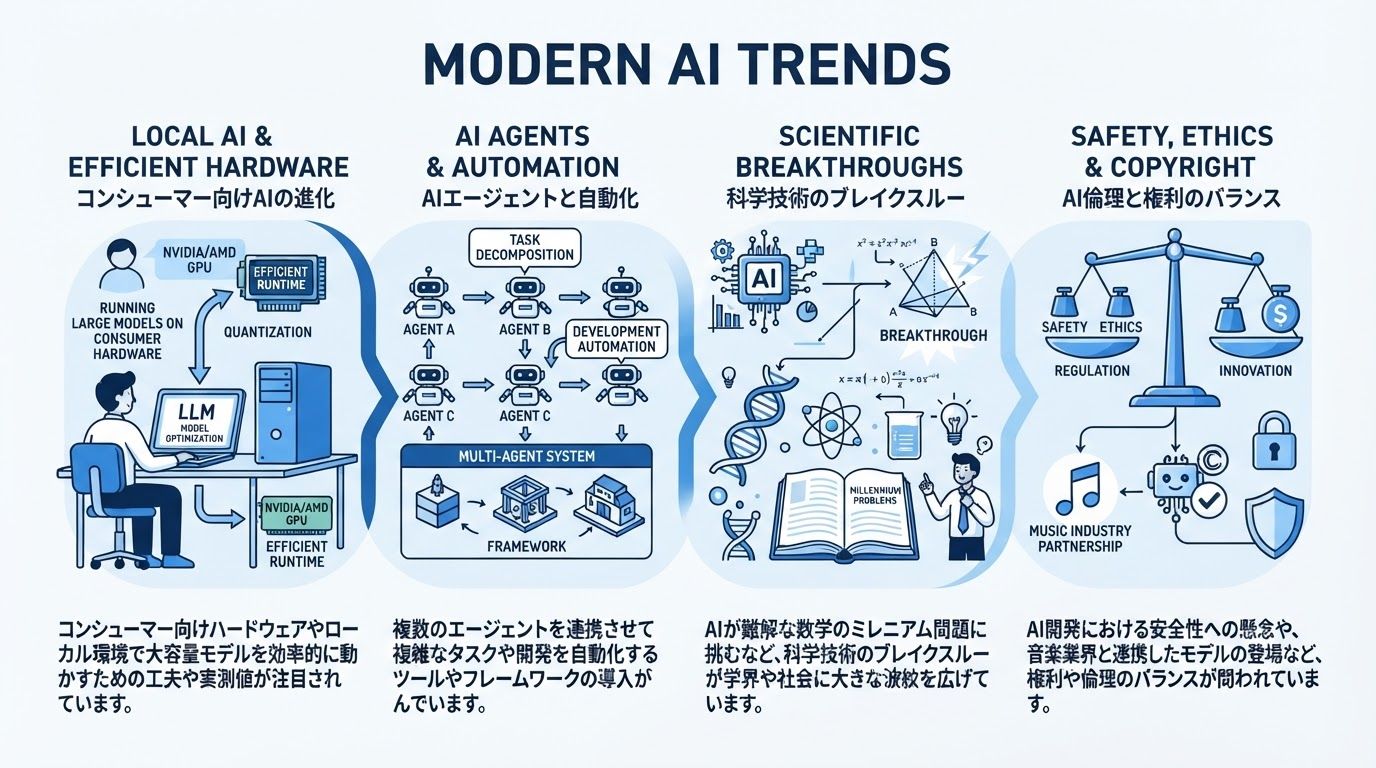
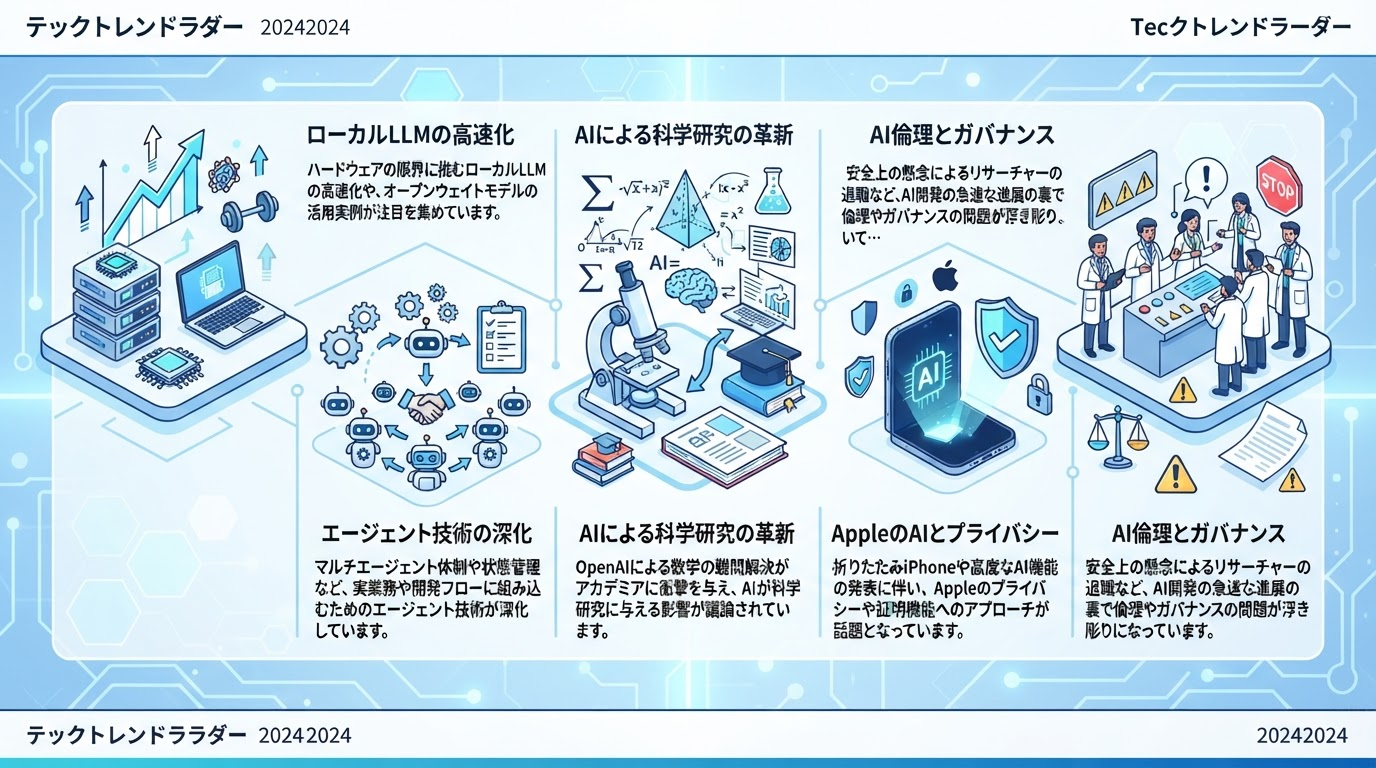
refactor: 記事末尾のセクション画像2枚を削除、ヒーロー画像のみに簡素化
ユーザー指摘: 記事末尾の2カラム画像（section-1/section-2）は視覚的に不要で、
ヒーロー画像だけあれば十分とのフィードバック。

- site/src/pages/posts/[date]/index.astro: 末尾の画像グリッドsectionを削除
- scripts/images.mjs: section-1/section-2画像の生成を削除（hero + overview.svgのみ）。
  Vertex AI呼び出しが1テーマあたり2回減り、コストとレート制限リスクを削減
- scripts/curate.mjs: Stage Bスキーマから不要になったimagePromptEnフィールドを削除、
  frontmatterのsectionImagePromptsも削除
- site/src/content.config.ts: sectionImagePromptsのスキーマを削除
- 不要になった既存のsection-*.jpg/svgファイルをリポジトリから削除

Playwrightで実機確認（記事末尾がヒーロー画像+出典リストのみになっていることを
スクリーンショットで確認）。単体テスト33/33 pass、AC-2再検証（裏取り率100%）も維持。

Claude-Session: https://claude.ai/code/session_018f6NaY9LbH61gbz9EC41HD

diff --git a/site/src/content.config.ts b/site/src/content.config.ts
@@ -19,7 +19,6 @@ const posts = defineCollection({
     /** 本文の脚注が引用する出典 id（data/raw/<date>.json の id と対応） */
     sourceIds: z.array(z.string()).default([]),
     heroImagePrompt: z.string().optional(),
-    sectionImagePrompts: z.array(z.string()).default([]),
   }),
 });
 

diff --git a/site/src/content/posts/2026-09-10.md b/site/src/content/posts/2026-09-10.md
@@ -1,76 +1,84 @@
 ---
 title: "2026-09-10 のAIトレンド"
 date: "2026-09-10"
-description: "ローカルLLMと最新ハードウェアの活用術 / 自律型AIエージェントの進化と実践 / AIのフロンティアと学術・数学への衝撃 / AIの安全性・著作権と倫理を巡る議論"
-tags: ["ローカルLLMと最新ハードウェアの活用術", "自律型AIエージェントの進化と実践", "AIのフロンティアと学術・数学への衝撃", "AIの安全性・著作権と倫理を巡る議論"]
+description: "ローカルLLMと最適化の最新動向 / AIエージェントの進化と実践利用 / AIによる数学のブレイクスルー / Appleの新発表とプライバシー保護 / AI開発における安全性と倫理の課題"
+tags: ["ローカルLLMと最適化の最新動向", "AIエージェントの進化と実践利用", "AIによる数学のブレイクスルー", "Appleの新発表とプライバシー保護", "AI開発における安全性と倫理の課題"]
 themeTitles:
-  - "ローカルLLMと最新ハードウェアの活用術"
-  - "自律型AIエージェントの進化と実践"
-  - "AIのフロンティアと学術・数学への衝撃"
-  - "AIの安全性・著作権と倫理を巡る議論"
-sourceIds: ["s-b01295803d", "s-a30369a1d2", "s-29c2520b16", "s-63cb8dff04", "s-9a3955656d", "s-5b14fad2d4", "s-b01231565a", "s-930dd1342c", "s-b17fe165b2", "s-7c213e5a75", "s-91280ddebc", "s-d012f70487", "s-53db70e4e0", "s-2437055705", "s-65c17ac8fa", "s-8b9c0147f9", "s-e73f82d925", "s-6e51b04520"]
-heroImagePrompt: "Flat-design tech blog hero illustration summarizing today's AI trends: コンシューマー向けハードウェアやローカル環境で大容量モデルを効率的に動かすための工夫や実測値が注目されています。; 複数のエージェントを連携させて複雑なタスクや開発を自動化するツールやフレームワークの導入が進んでいます。; AIが難解な数学のミレニアム問題に挑むなど、科学技術のブレイクスルーが学界や社会に大きな波紋を広げています。; AI開発における安全性への懸念や、音楽業界と連携したモデルの登場など、権利や倫理のバランスが問われています。. Clean, modern, blue and white palette, 16:9."
-sectionImagePrompts:
-  - "A modern clean desk setup featuring a MacBook Pro and a custom PC with multiple graphics cards, displaying glowing code and AI model performance charts on the screens, cinematic lighting, photorealistic."
-  - "A futuristic digital workspace showing a kanban board with glowing holographic tasks, multiple AI agents collaborating and exchanging messages as a team, corporate technology style, vibrant blue and purple accents."
+  - "ローカルLLMと最適化の最新動向"
+  - "AIエージェントの進化と実践利用"
+  - "AIによる数学のブレイクスルー"
+  - "Appleの新発表とプライバシー保護"
+  - "AI開発における安全性と倫理の課題"
+sourceIds: ["s-b01295803d", "s-a30369a1d2", "s-9a3955656d", "s-1e5c2e53a9", "s-29c2520b16", "s-63cb8dff04", "s-930dd1342c", "s-b17fe165b2", "s-b01231565a", "s-91280ddebc", "s-9a1c7ae8d3", "s-d012f70487", "s-2437055705", "s-53db70e4e0", "s-65c17ac8fa", "s-ccb0818f72", "s-d6f0852fba", "s-9289099b73", "s-8b9c0147f9", "s-e73f82d925"]
+heroImagePrompt: "Flat-design tech blog hero illustration summarizing today's AI trends: ハードウェアの限界に挑むローカルLLMの高速化や、オープンウェイトモデルの活用実例が注目を集めています。; マルチエージェント体制や状態管理など、実業務や開発フローに組み込むためのエージェント技術が深化しています。; OpenAIによる数学の難問解決がアカデミアに衝撃を与え、AIが科学研究に与える影響が議論されています。; 折りたたみiPhoneや高度なAI機能の発表に伴い、Appleのプライバシーや証明機能へのアプローチが話題となっています。; 安全上の懸念によるリサーチャーの退職など、AI開発の急速な進展の裏で倫理やガバナンスの問題が浮き彫りになっています。. Clean, modern, blue and white palette, 16:9."
 ---
 ## 今日のトピック
 
 | # | テーマ | 出典数 | 主な情報源 |
 |---|---|---|---|
-| 1 | ローカルLLMと最新ハードウェアの活用術 | 6件 | GitHub Trending (llm), Reddit r/LocalLLaMA, Zenn (AI トピック) |
-| 2 | 自律型AIエージェントの進化と実践 | 6件 | GitHub Trending (llm), GitHub Trending (ai), Qiita (AI タグ) |
-| 3 | AIのフロンティアと学術・数学への衝撃 | 3件 | Qiita (AI タグ), Hacker News, The Verge AI |
-| 4 | AIの安全性・著作権と倫理を巡る議論 | 4件 | はてなブックマーク (IT), Hacker News, The Verge AI |
+| 1 | ローカルLLMと最適化の最新動向 | 6件 | GitHub Trending (llm), Reddit r/LocalLLaMA, Zenn (AI トピック) |
+| 2 | AIエージェントの進化と実践利用 | 6件 | GitHub Trending (llm), GitHub Trending (ai), Qiita (AI タグ) |
+| 3 | AIによる数学のブレイクスルー | 3件 | Qiita (AI タグ), Hacker News, The Verge AI |
+| 4 | Appleの新発表とプライバシー保護 | 3件 | ITmedia AI+, The Verge AI |
+| 5 | AI開発における安全性と倫理の課題 | 4件 | はてなブックマーク (IT), Hacker News |
 
-## ローカルLLMと最新ハードウェアの活用術
+## ローカルLLMと最適化の最新動向
 
-コンシューマー向けハードウェアやローカル環境で大容量モデルを効率的に動かすための工夫や実測値が大きな注目を集めています[^s-b01295803d]。例えば、Apple Silicon向けの **omlx** では、連続バッチ処理やSSDキャッシングを活用したLLM推論サーバーをmacOSのメニューバーから管理できるようになっています[^s-a30369a1d2]。
+ハードウェアの限界に挑むローカルLLMの高速化やオープンウェイトモデルの活用において、さまざまな実例や最適化の工夫が注目を集めています[^s-b01295803d]。GitHubのトレンドでは、ローカル環境で大規模言語モデルや拡散モデルを実行・学習できるUIとして **unslothai/unsloth** が人気を集めており、**GGUF** や **MLX** などの形式をはじめ **Qwen3.8** や **DeepSeek-V4** など多くのモデルに対応しています[^s-b01295803d]。
 
-また、ハードウェアの構成やスペックによって実測値には大きな違いが出ることも報告されています[^s-29c2520b16]。ある検証では、メモリ **64GB** のWindowsデスクトップよりも、メモリ **16GB** の **MacBook Pro M4** の方がローカル実行で3倍以上速かったという実測データが示されています[^s-29c2520b16]。
+Apple Silicon向けの **omlx** のように、継続的バッチ処理や **SSDキャッシング** を活用しつつmacOSのメニューバーから管理できる推論サーバーも登場しています[^s-a30369a1d2]。また、コミュニティの検証では、専門家キャッシュをGPUから一時的に外すといった工夫によりプロンプト処理の大幅な高速化が報告されているほか、**Qwen 3.8** を用いて有料の外部サービスより高速にコーディングの課題をこなせたという実例もあります[^s-9a3955656d][^s-1e5c2e53a9]。
 
-さらに、ローカルLLMを動かす具体的な環境構築や工夫の事例も増えています[^s-63cb8dff04]。
-- **RTX 3060** などのGPUを活用し、量子化モデルを組み合わせて10から20tps程度の速度で動作させている実例があります[^s-63cb8dff04]。
-- 複数のGPUとDDR4を組み合わせた環境で、専門家キャッシュの制御によってプロンプト処理を大幅に高速化する試みが行われています[^s-9a3955656d]。
-- グラフィック内蔵の **780m iGPU** とDDR5メモリを使い、システム全体の快適性を保ちながらローカルモデルを動かす運用方法も検討されています[^s-5b14fad2d4]。
+さらに、ローカルでの生成処理においてはハードウェアの特性による違いも明らかになっています[^s-29c2520b16]。音楽生成モデルの実測では、メモリ容量が64GBのWindowsデスクトップよりも、メモリ16GBの **MacBook Pro** の方が **Apple Silicon** の利点を活かして3倍以上速く処理を完了できたという記録もあります[^s-29c2520b16]。一方で、RTX 3060などのGPU環境でも、量子化モデルを活用して実用的な速度で **Qwen 3.8 27B** を動作させる試みが行われています[^s-63cb8dff04]。
 
-## 自律型AIエージェントの進化と実践
+## AIエージェントの進化と実践利用
 
-近年、複数のAIを活用して複雑なタスクや開発を自動化するツールやフレームワークの導入が進んでいます[^s-b01231565a]。例えば、**agent-teams-ai**では人間がリーダーとなり、AIエージェント同士がメッセージを送り合ってタスクを処理し、互いの成果物をレビューする仕組みが提供されています[^s-b01231565a]。人間はかんばんボードを確認しながら大まかな指示を出すだけで、複数のチームによるAIカンパニーの構築が可能になっています[^s-b01231565a]。
+近年、AIエージェントの分野では実業務への応用を見据えた多様な技術やフレームワークが注目を集めています[^s-930dd1342c][^s-b17fe165b2]。たとえば、**cocoindex-io/cocoindex** は長期間にわたる処理を実行するエージェント向けに、インクリメンタルな処理エンジンを提供しています[^s-b17fe165b2]。また、**NousResearch/hermes-agent** のようにユーザーと共に成長していくことを目指すエージェントも開発されています[^s-930dd1342c]。
 
-また、エージェントの進化を支える多様なオープンソースプロジェクトも注目を集めています[^s-930dd1342c][^s-b17fe165b2][^s-7c213e5a75]。ユーザーと共に成長する**hermes-agent**や、長期的なタスクを扱うためのインクリメンタルエンジンである**cocoindex**、そして開箱即用の**cindy**などが開発されています[^s-930dd1342c][^s-b17fe165b2][^s-7c213e5a75]。さらに、人間のように記憶やアイデンティティを持ち、学習・適応するステートフルなエージェントとして**letta-code**も登場しています[^s-91280ddebc]。
+開発現場やチーム体制の効率化を目的とした新しい試みも進んでいます[^s-b01231565a][^s-91280ddebc][^s-9a1c7ae8d3]。**777genius/agent-teams-ai** では、人間がリーダーとなってエージェントのチームを指揮し、タスクの分担や相互レビューを自律的に行わせることが可能です[^s-b01231565a]。さらに、**letta-ai/letta-code** はメモリやアイデンティティを持ち、学習して適応する人間のようなステートフルなエージェントを実現しています[^s-91280ddebc]。ターミナル上で複数のコーディングエージェントを並行稼働させる **Sma1lboy/rove** のようなツールも登場しています[^s-9a1c7ae8d3]。
 
-開発の現場においては、エージェントの実行基盤の設計も重要なテーマとなっています[^s-d012f70487]。AWSの公式記事では、既存の**LangGraph**を**AgentCore**へ移行する段階と、**Strands**を用いてモデル中心のループへ組み替える段階を分けて設計する手法が示されています[^s-d012f70487]。このように、実行環境と計画を分離するアプローチによって、エージェントシステムの柔軟な移行や構築が行えるようになっています[^s-d012f70487]。
+このように実行基盤の移行や計画設計の分離といったアーキテクチャの工夫も含め、実用的なエージェント環境の構築が日々深化しています[^s-d012f70487]。
 
-## AIのフロンティアと学術・数学への衝撃
+## AIによる数学のブレイクスルー
 
-**OpenAI**は**1万エージェント**を活用し、**88時間**という短時間で数学の伝説的な難問である**ミレニアム問題**を解決したと発表しました[^s-53db70e4e0][^s-2437055705]。この画期的な成果は、AIが数学の研究分野をいかに急激に変革しているかを示す圧倒的な実例となりました[^s-2437055705]。
+近年、AI技術の発展はついに純粋な学術の領域にも大きな衝撃を与えつつあります[^s-2437055705]。特に **OpenAI** が発表した画期的な成果は、世界中の研究者に未来の科学のあり方を深く考えさせる契機となりました[^s-2437055705]。
 
-しかし、この突然のブレイクスルーは、公式な発表の時点ですでに複雑な波紋を呼ぶ事態となっています[^s-2437055705]。AIによる難問の解決は紛れもない偉業である一方、学術界に強い衝撃とある種の緊張感を与える結果となりました[^s-2437055705]。
+**OpenAI** は **1万エージェント** という膨大な数のAIを駆使し、わずか **88時間** という短期間で数学の歴史的な難問である **ミレニアム問題** の解決に成功したと発表しました[^s-53db70e4e0][^s-2437055705]。この圧倒的な処理能力とスピードによる快挙は、数学界のみならずアカデミア全体に計り知れない衝撃と波紋を広げています[^s-2437055705]。
 
-流体力学の基礎方程式である**Navier-Stokes**などの数学的課題におけるAIの活用は、今後の研究のあり方そのものに大きな問いを投げかけています[^s-65c17ac8fa]。AI技術の急速な進展は、従来の学問の進め方や人間による研究の意義を見直す転換点を私たちにつきつけています[^s-2437055705]。
+AIが人間の知的活動の最高峰の一つである数学の難問を解いたという事実は、AIが科学研究そのものの未来をどのように変革していくのかという議論を急加速させています[^s-65c17ac8fa][^s-2437055705]。今やAIは単なる便利なツールを超え、学術的なブレイクスルーを自ら引き起こす存在として、新たな時代を切り拓き始めています[^s-2437055705]。
 
-## AIの安全性・著作権と倫理を巡る議論
+## Appleの新発表とプライバシー保護
 
-AI（人工知能）の開発が進む中で、安全性に関する深刻な懸念や権利を巡る議論が活発になっています[^s-8b9c0147f9][^s-e73f82d925]。米AI開発企業**アンソロピック**に勤務していた研究者が、安全上の懸念を理由に相次いで退職していることが報じられました[^s-8b9c0147f9]。ある元研究者は、AIの開発者らがAIによって人類が脅かされるかもしれないと本気で信じていると語っています[^s-8b9c0147f9]。また、同社では初期のレビューで見逃されていたAIハッキング事案が新たに開示されるなど、技術の安全確保における課題が浮き彫りになっています[^s-e73f82d925]。
+米Appleは9日、価格が **1999ドル（約30万7000円）** となる折りたたみ式iPhone **「Duo」** を発表しました[^s-ccb0818f72]。洗練されたデザインとデータプライバシーへの取り組みを大きな武器として、先行する競合他社を追い抜く狙いを持っています[^s-ccb0818f72]。
 
-一方で、著作権や倫理のバランスを取る動きも始まっています[^s-6e51b04520]。音楽生成AIを手がける**Suno**は、レコード業界の支援を受けて開発された初のAI音楽モデル「**v6**」をリリースしました[^s-6e51b04520]。この新しいモデルは、従来とは異なるライセンス取得済みのデータセットを用いてゼロからトレーニングされており、権利者に配慮したモデル構築の事例として注目を集めています[^s-6e51b04520]。
+また同日のイベントでは、**Siri Recap** や **Live Rewind** などの新たなAI音声機能が公開されました[^s-d6f0852fba]。これに伴い、AIによる周囲の音声聞き取りとユーザーのプライバシーをどのように両立させるかについての公式ドキュメントも公開されています[^s-d6f0852fba]。
 
+さらに、撮影した写真がAIによって加工されていないことを証明する **「Reference Image」** という新機能も発表されました[^s-9289099b73]。今月末に登場する **iPhone 18 Pro** シリーズに搭載され、新しいカメラセンサーを使って撮影されたすべての画素に署名を行う仕組みとなっています[^s-9289099b73]。
+
+## AI開発における安全性と倫理の課題
+
+AI（人工知能）の急速な発展の裏で、安全性や倫理に関する深刻な課題が浮き彫りになってきています[^s-8b9c0147f9]。米国のAI開発企業である **アンソロピック** では、安全上の懸念を理由に研究者が相次いで退職する事態が発生しています[^s-8b9c0147f9]。
+
+退職した研究者の一人であるジェイコブ・コクソン氏は、開発に携わる人々の中には、AIが将来的に人類を脅かすかもしれないと本気で信じている者がいると指摘しています[^s-8b9c0147f9]。このように、最先端の技術を追求する現場のスピード感と、ガバナンスやリスク管理に対する姿勢の間で大きな葛藤が生じています[^s-8b9c0147f9]。
+
+さらに同社では、事前のレビューで見落とされていたAIハッキング事案が複数回にわたって新たに開示されるなど[^s-e73f82d925]、技術の制御に関する懸念材料が絶えません。AI技術が社会に与える影響が大きくなるにつれて、開発のアクセルを踏むだけでなく、安全性を担保するための倫理的な枠組み作りが急務となっています[^s-8b9c0147f9][^s-e73f82d925]。
+
+[^s-1e5c2e53a9]: [Local LLM / Qwen 3.8 win](https://www.reddit.com/r/LocalLLaMA/comments/1wc5t3s/local_llm_qwen_38_win/) — Reddit r/LocalLLaMA（2026-09-10）
 [^s-2437055705]: [OpenAI’s sly mathematical breakthrough sends a chill through academia](https://www.theverge.com/ai-artificial-intelligence/992953/openai-math-millennium-prize-navier-stokes) — The Verge AI（2026-09-09）
 [^s-29c2520b16]: [メモリ64GBのWindowsより、16GBのMacBookが3倍速かった（ローカル音楽生成の実測）](https://zenn.dev/st0202/articles/acestep-local-hardware) — Zenn (AI トピック)（2026-09-10）
 [^s-53db70e4e0]: [AI Daily Digest 2026-09-10：OpenAI「1万エージェントで90年数学の難問を解いた」と発表、Apple初の折りたたみスマホ、メモリ供給が歴史的逼迫](https://qiita.com/lhjjjk4/items/6dbf03053da65e40e9d6) — Qiita (AI タグ)（2026-09-10）
-[^s-5b14fad2d4]: [Would you consider 5t/s usable for a local model?](https://www.reddit.com/r/LocalLLaMA/comments/1wbvd2i/would_you_consider_5ts_usable_for_a_local_model/) — Reddit r/LocalLLaMA（2026-09-09）
 [^s-63cb8dff04]: [Running qwen 3.8 27B iq3 xxs on RTX 3060.](https://www.reddit.com/r/LocalLLaMA/comments/1wc2cs2/running_qwen_38_27b_iq3_xxs_on_rtx_3060/) — Reddit r/LocalLLaMA（2026-09-09）
 [^s-65c17ac8fa]: [Navier–Stokes, AI and the future of research in mathematics [pdf]](https://bms.ulb.ac.be/data/uploads/untitled.pdf) — Hacker News（2026-09-10）
-[^s-6e51b04520]: [Suno releases its first AI music model made with record industry help](https://www.theverge.com/ai-artificial-intelligence/991977/suno-releases-its-first-ai-music-model-made-with-record-industry-help) — The Verge AI（2026-09-09）
-[^s-7c213e5a75]: [makecindy/cindy: Consider it done. The open-source AI agent that works out of the box · 想到，就能做到。开源、开箱即用的 AI Agent。](https://github.com/makecindy/cindy) — GitHub Trending (llm)（2026-09-10）
 [^s-8b9c0147f9]: [「AIは我々の命を賭けの対象にしている」　安全上の懸念を理由に研究者がアンソロピック退社](https://www.cnn.co.jp/tech/35252472.html) — はてなブックマーク (IT)（2026-09-10）
 [^s-91280ddebc]: [letta-ai/letta-code: Stateful agents that are like people, with memory, identity, and the ability to learn and adapt](https://github.com/letta-ai/letta-code) — GitHub Trending (ai)（2026-09-10）
+[^s-9289099b73]: [Apple’s new iPhone camera mode promises to prove your photo isn’t AI](https://www.theverge.com/tech/992766/apple-iphone-18-pro-reference-image) — The Verge AI（2026-09-09）
 [^s-930dd1342c]: [NousResearch/hermes-agent: The agent that grows with you](https://github.com/NousResearch/hermes-agent) — GitHub Trending (llm)（2026-09-10）
+[^s-9a1c7ae8d3]: [Sma1lboy/rove: Rove — the agent multiplexer for your terminal. Run coding agents on parallel tasks with isolated worktrees and persistent sessions.](https://github.com/Sma1lboy/rove) — GitHub Trending (llm)（2026-09-10）
 [^s-9a3955656d]: [Qwen3.8-Flash-Next on 2x3090 + DDR4, part 4: 2.2-2.5x faster prefill by kicking the expert cache off the GPU while the prompt runs](https://www.reddit.com/r/LocalLLaMA/comments/1wc6fsk/qwen38flashnext_on_2x3090_ddr4_part_4_2225x/) — Reddit r/LocalLLaMA（2026-09-10）
 [^s-a30369a1d2]: [jundot/omlx: LLM inference server with continuous batching & SSD caching for Apple Silicon — managed from the macOS menu bar](https://github.com/jundot/omlx) — GitHub Trending (llm)（2026-09-10）
 [^s-b01231565a]: [777genius/agent-teams-ai: You're the boss, agents are your team. They handle tasks on their own, message each other, and review each other's work. You just watch the kanban board and give high-level commands. Codex/Claude/OpenCode/Cursor/Grok/GitHub Copilot/Kiro/Z.AI/MiniMax/Kimi(200+ models, 75+ LLM providers, free models no auth). Build your AI company with multiple teams](https://github.com/777genius/agent-teams-ai) — GitHub Trending (llm)（2026-09-10）
 [^s-b01295803d]: [unslothai/unsloth: Local UI to run and train LLMs and diffusion models. Supports GGUF, MLX, Qwen3.8, DeepSeek-V4, MiniMax-H3, Gemma 4, FLUX and more.](https://github.com/unslothai/unsloth) — GitHub Trending (llm)（2026-09-10）
 [^s-b17fe165b2]: [cocoindex-io/cocoindex: Incremental engine for long horizon agents 🌟 Star if you like it!](https://github.com/cocoindex-io/cocoindex) — GitHub Trending (ai)（2026-09-10）
+[^s-ccb0818f72]: [Apple折りたたみiPhone「Duo」発表　新CEO「使い勝手が悪い」と批判するSamsung、Huaweiの牙城を崩せるか](https://www.itmedia.co.jp/business/articles/2609/10/news077.html) — ITmedia AI+（2026-09-10）
 [^s-d012f70487]: [AgentCore移行で比べるLangGraphとStrands：実行基盤と計画を分けて設計する](https://qiita.com/emi_ndk/items/f16b0b2aaa77d114a43c) — Qiita (AI タグ)（2026-09-10）
+[^s-d6f0852fba]: [Read the Apple document explaining how new listening features still protect your privacy](https://www.theverge.com/tech/992919/apple-siri-ai-audio-intelligence-privacy) — The Verge AI（2026-09-09）
 [^s-e73f82d925]: [Anthropic discloses fourth AI hacking incident missed in earlier review](https://www.reuters.com/legal/litigation/anthropic-reports-fourth-cybersecurity-incident-with-early-version-claude-2026-09-09/) — Hacker News（2026-09-10）

diff --git a/AGENTS.md b/AGENTS.md
@@ -11,7 +11,7 @@ curate.mjs (Vertex AI gemini-3.5-flash-lite) → site/src/content/posts/YYYY-MM-
     ↓
 validate-citations.mjs (脚注が data/raw に解決するか機械検証。1件でも未解決なら exit 1)
     ↓
-images.mjs (Vertex AI gemini-3.1-flash-lite-image) → site/public/images/YYYY-MM-DD/*.jpg
+images.mjs (Vertex AI gemini-3.1-flash-lite-image で hero.jpg 1枚 + 決定的生成のoverview.svg) → site/public/images/YYYY-MM-DD/
     ↓
 Astro build → dist/ → GitHub Pages
 ```
